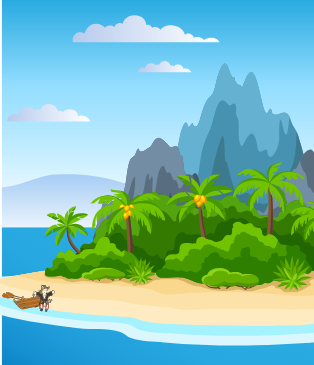
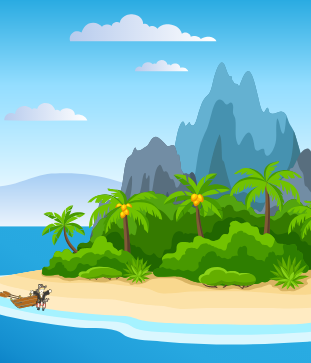
Added background to battle function scene. Added image itself. Placed it in xbattle.js

diff --git a/assets/js/xbattle.js b/assets/js/xbattle.js
@@ -95,7 +95,7 @@ function actionResult(action, counter) { //Output of each battle action
     }
   }
 
-  return battleOver(playerHp, opponentHp);
+  return battleOver(playerHp, opponentHp); //Check continue
 }
 
 /* Battle Option Processing */
@@ -107,7 +107,7 @@ function battleOption(option) {
   let opponentRng = Math.floor(Math.random() * 4);
   let counterAction = opponentMoves[opponentRng];
 
-  return actionResult(actionTaken, counterAction);
+  return actionResult(actionTaken, counterAction); //Check result
 }
 
 /* Main Battle Function */
@@ -136,7 +136,9 @@ function battle(sceneNumber) {
 
   bubbleText.innerText = ""; //Clear previous texts
 
+  const bgSrc = "'" + scene.background + "'";
+  const bgUrl = "url(" + bgSrc + ")";
   $(screenElem).css({
-    "background": "red"
-  }); // toDo visually
+    "background-image": bgUrl
+  }); //Put new scene background
 }

diff --git a/assets/js/scenes.js b/assets/js/scenes.js
@@ -1012,7 +1012,7 @@ const scenes = [
   {
     id: 77, //Scene Seven-Seven - challenge mode
     text: "",
-    background: "",
+    background: "assets/images/scenes/77.png",
     dialog: "",
     options: [
       {

diff --git a/assets/css/style.css b/assets/css/style.css
@@ -74,8 +74,8 @@ footer {
 
 .battleText {
   color: rgb(51, 51, 51);
-  position: relative;
-  top: 150px;
+  position: absolute;
+  top: 160px;
 }
 
 .battleText p {
